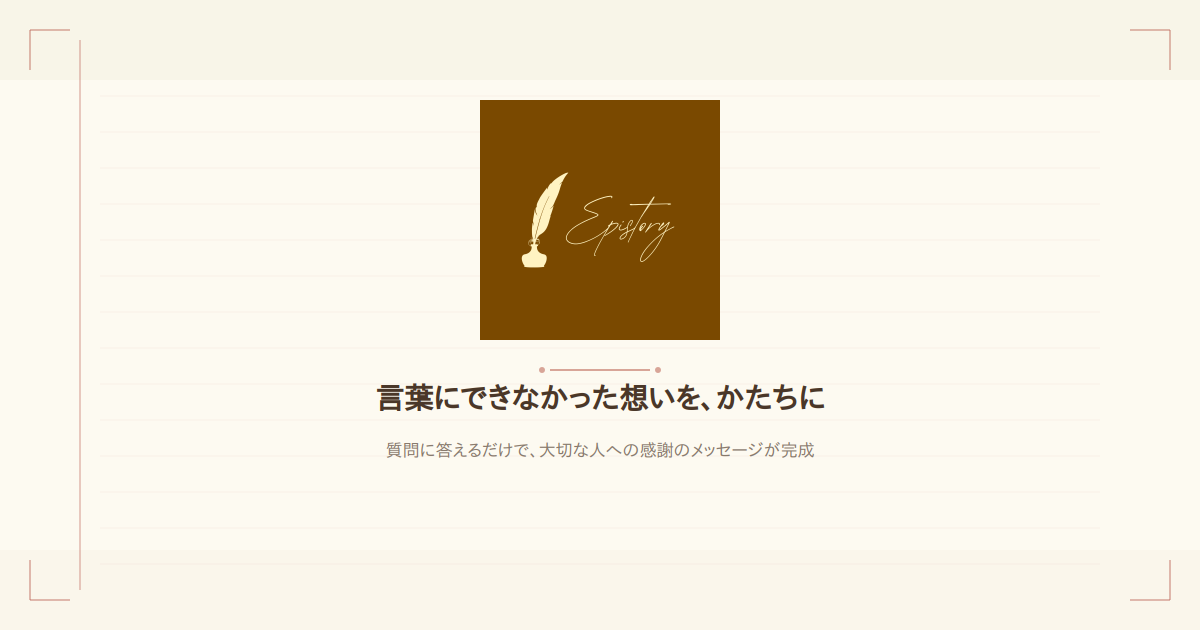
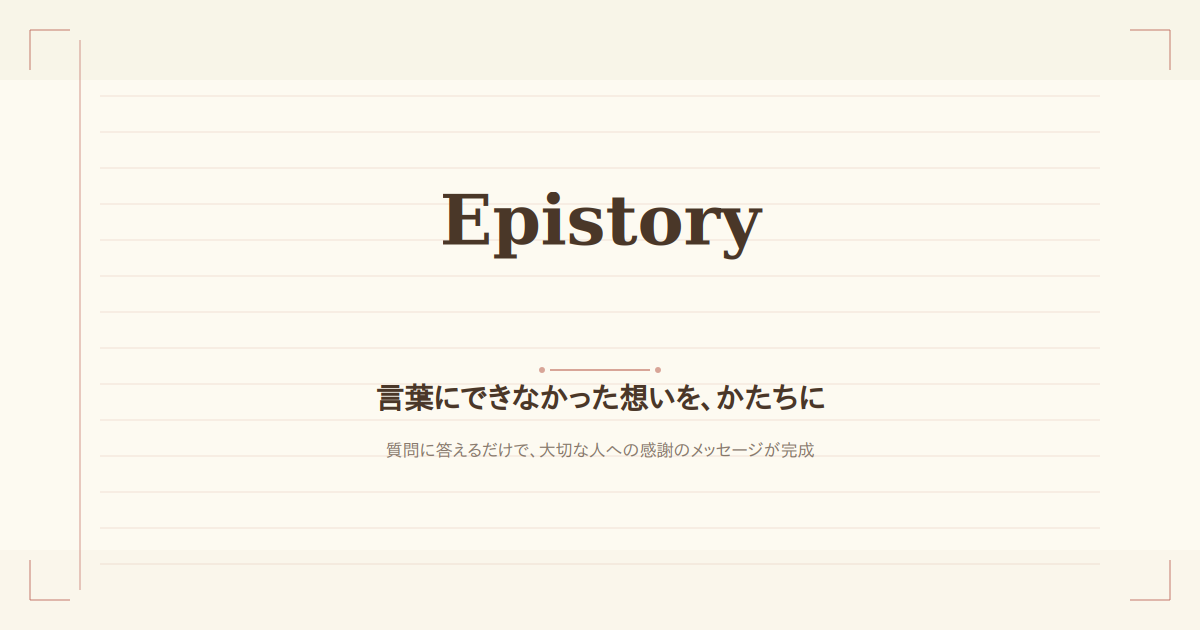
OGPをテキスト版に変更し罫線の視認性を向上
- ロゴ画像を使わずテキスト("Epistory")表示に変更
  （パッと見で名前がわかりやすいため）
- ロゴ版は ogp_v*_logo.png として保存
- 手紙の罫線のアルファ値を大幅に引き上げ（V1: 0.10→0.22, V2: 0.08→0.18）
  罫線がはっきり見えるように改善

https://claude.ai/code/session_019dNDcDNW3bpVEkEaUGPNBR

Changed region(s): [[0.37, 0.1508, 0.6475, 0.5429]]

diff --git a/scripts/generate_ogp.py b/scripts/generate_ogp.py
@@ -203,11 +203,11 @@ def soft_circles(c, items):
         c.circle(cx, cy, r)
 
 
-def ruled_lines(c, x, y, w, h, sp=32, a=0.06):
+def ruled_lines(c, x, y, w, h, sp=32, a=0.06, lw=1.0):
     c.rgb(COL['primary'], a)
     cur = y + sp
     while cur < y + h:
-        c.line(x, cur, x + w, cur, 0.8)
+        c.line(x, cur, x + w, cur, lw)
         cur += sp
 
 
@@ -266,7 +266,7 @@ def gen_v1(logo_path, out):
     c.rounded_rect_stroke(cx, cy, cw, ch, 24, 1.5)
 
     # Ruled lines inside card
-    ruled_lines(c, cx + 40, cy + 20, cw - 80, ch - 40, sp=34, a=0.10)
+    ruled_lines(c, cx + 40, cy + 20, cw - 80, ch - 40, sp=34, a=0.22, lw=1.0)
 
     # Logo
     logo_top = cy + 40
@@ -315,8 +315,8 @@ def gen_v2(logo_path, out):
         c.line(ax, ay, ax + dx*cn, ay, cw_l)
         c.line(ax, ay, ax, ay + dy*cn, cw_l)
 
-    # Faint ruled lines
-    ruled_lines(c, 100, 60, WIDTH - 200, HEIGHT - 120, sp=36, a=0.08)
+    # Ruled lines (letter paper feel)
+    ruled_lines(c, 100, 60, WIDTH - 200, HEIGHT - 120, sp=36, a=0.18, lw=1.0)
 
     # Logo
     logo_bottom, _ = draw_logo_or_fallback(c, logo_path, WIDTH/2, 100, 240)
@@ -395,8 +395,9 @@ def main():
     base = os.path.dirname(os.path.dirname(os.path.abspath(__file__)))
     img_dir = os.path.join(base, "app", "assets", "images")
 
-    logo = find_logo()
-    print(f"Logo: {logo or '(not found - using text fallback)'}")
+    # ロゴ画像を使わずテキスト表示にする（ロゴ版は *_logo.png として保存済み）
+    logo = None
+    print("Using text mode (no logo image)")
     print("Generating OGP variations...")
 
     gen_v1(logo, os.path.join(img_dir, "ogp_v1.png"))
